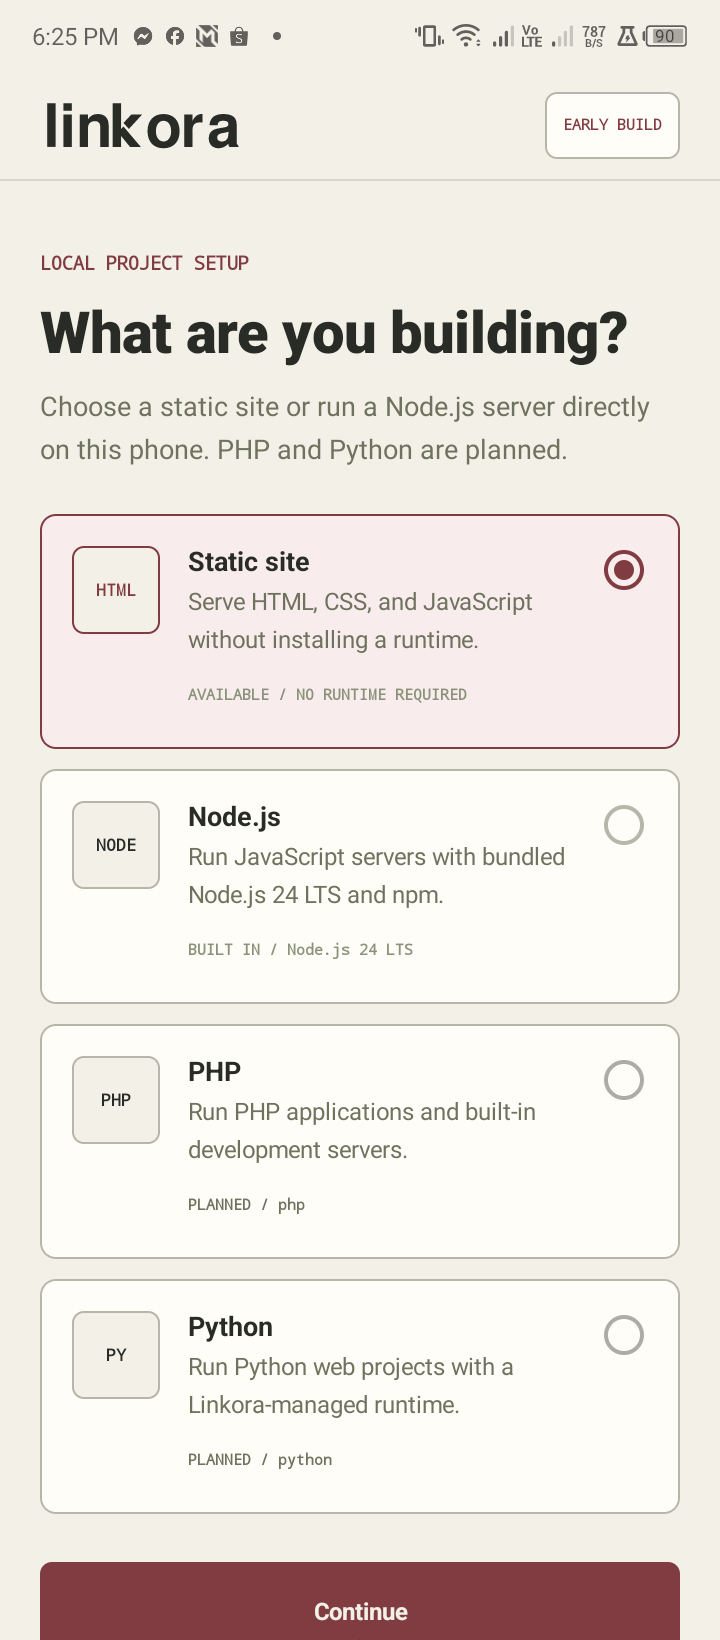
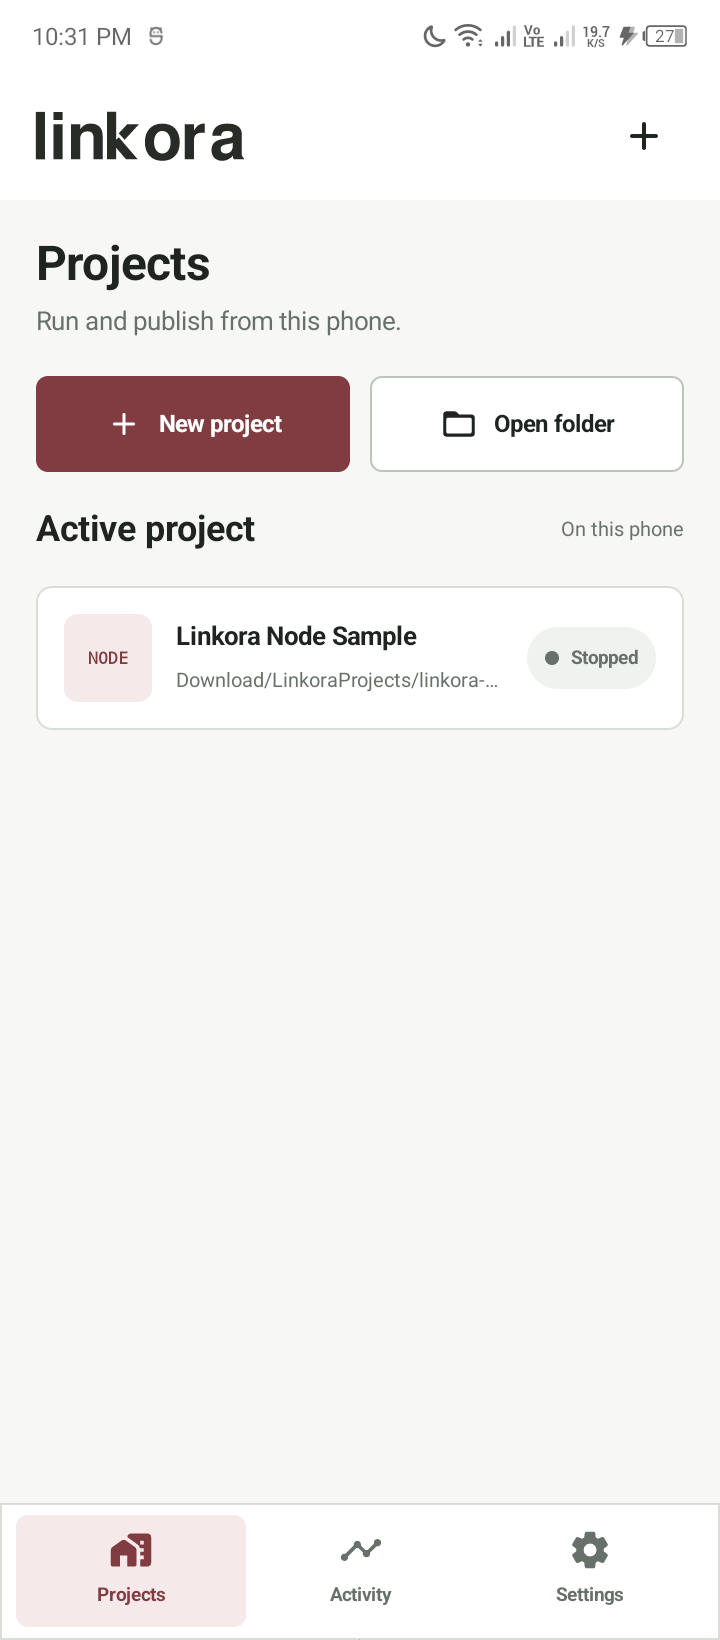
chore: prepare F-Droid 0.7.0 release

diff --git a/README.md b/README.md
@@ -22,6 +22,10 @@ Lightweight Android companion for Linkora, built with Kotlin and Jetpack Compose
 - Browser-based device authorization through Android Custom Tabs
 - Automatic approval polling and session restoration
 - Android Keystore-encrypted access-token storage
+- Standalone mode with no Linkora account or `linkora.top` dependency
+- Device-only and local-network project access
+- User-owned domain publishing through a Cloudflare Tunnel token
+- Selectable Node.js and PHP start commands with `{HOST}` and `{PORT}` placeholders
 - Linkora domain-pool and managed-hostname integration
 - New or existing Linkora URL assignment through the production API
 - Optional Linkora Connector Pack with foreground status and automatic reconnect
@@ -30,23 +34,28 @@ Lightweight Android companion for Linkora, built with Kotlin and Jetpack Compose
 - CPU-neutral main APK with architecture-specific runtime selection
 - Linkora brand colors and Android launcher icon
 
-Sign-in uses Linkora's one-time device authorization flow. The app opens the
+Linkora-managed mode uses Linkora's one-time device authorization flow. The app opens the
 approval page on `linkora.top`, never receives the account password, and exchanges
 the approved request for a revocable device token.
 
+Standalone mode does not require a Linkora account and does not call the Linkora
+API. Projects can stay device-only, be shared on the local network, or use a
+Cloudflare Tunnel configured by the user for their own domain.
+
 ## Project workflow
 
-1. Select **Static site**, **Node.js**, or **PHP** and sign in with Linkora.
-2. Use the included starter or tap **Choose project folder**.
-3. In Android Files, choose a folder containing `index.html` for a static site,
+1. Select **Linkora managed** or **Standalone** publishing.
+2. Select **Static site**, **Node.js**, or **PHP**. Sign in only in Linkora-managed mode.
+3. Use the included starter or tap **Choose project folder**.
+4. In Android Files, choose a folder containing `index.html` for a static site,
    `package.json` and a supported JavaScript entry file for Node.js, or
-   `index.php` for PHP.
-4. Edit the selected files with any Android file editor.
-5. For Node.js, install dependencies if needed and start the runtime. For PHP,
+   `index.php` for PHP, or a Laravel project containing `artisan` and `public/index.php`.
+5. Edit the selected files with any Android file editor.
+6. For Node.js, install dependencies if needed and start the runtime. For PHP,
    start the verified PHP Runtime Pack. Open the preview after it is running.
-6. Tap **Assign Linkora URL** to reserve a hostname or use an existing managed
-   hostname.
-7. Linkora starts the installed connector pack and keeps the phone-hosted project online.
+7. Use the detected start command or set a `node`, `npm`, or `php` command.
+8. In managed mode, assign a Linkora URL. In standalone mode, keep the project
+   local, share it on the LAN, or connect a user-owned Cloudflare tunnel.
 
 The starter in Downloads or the user-selected folder remains the source of
 truth. Static projects are served directly. Node.js source is synchronized into
@@ -61,13 +70,16 @@ incompatible package. Additional ABI builds can be registered in a main-app
 update after their payload hashes and device tests are complete. Python remains
 planned.
 
-PHP projects must contain `index.php`. Linkora synchronizes selected project
-files into a private runtime workspace before each start or restart. Files
-created at runtime, including SQLite databases and uploads, remain available
-between restarts without modifying the selected source folder.
+PHP projects must contain `index.php`, or Laravel's `artisan` and
+`public/index.php`. Linkora synchronizes selected project files into a private
+runtime workspace before each start or restart. Files created at runtime,
+including SQLite databases and uploads, remain available between restarts
+without modifying the selected source folder.
 
-Node.js servers must listen on `process.env.HOST` and `process.env.PORT`.
-Linkora sets these to `127.0.0.1` and `8787` before starting the project.
+Node.js servers should listen on `process.env.HOST` and `process.env.PORT`.
+Linkora supplies both values and supports `{HOST}` and `{PORT}` placeholders in
+custom start commands. Local-network sharing changes the supplied host from
+`127.0.0.1` to `0.0.0.0`; the local port remains `8787`.
 
 The Android Node.js runtime is experimental. Pure JavaScript packages are the
 supported baseline. Linkora adapts common `better-sqlite3` and `sqlite3` APIs to
@@ -94,6 +106,8 @@ Runtime-pack design and verification are documented in
 ## F-Droid preparation
 
 F-Droid metadata is maintained in `.fdroid.yml` and `fastlane/metadata/android`.
-The build recipe remains disabled until a final release commit is tagged and
-the source repository is public. See [`docs/fdroid-release.md`](docs/fdroid-release.md)
-for the release checklist.
+The main-app recipe removes all prebuilt runtime payloads and excludes the
+runtime-pack modules before building the architecture-neutral APK from source.
+Static hosting remains fully functional; native runtimes are separate FOSS
+applications with their own release and review process. See
+[`docs/fdroid-release.md`](docs/fdroid-release.md) for the release checklist.

diff --git a/docs/fdroid-release.md b/docs/fdroid-release.md
@@ -1,22 +1,38 @@
 # F-Droid release preparation
 
-The repository contains upstream store metadata and a disabled `.fdroid.yml`
-recipe. It is prepared for review but must not be submitted until the release
-is final.
+The repository contains upstream store metadata and an active `.fdroid.yml`
+recipe for the architecture-neutral main application. The recipe deliberately
+removes prebuilt runtime payloads before F-Droid scans and builds the source.
 
 ## Before submission
 
 1. Make the source repository publicly cloneable.
 2. Confirm the application version and version code in `app/build.gradle.kts`.
-3. Update the build entry in `.fdroid.yml` to the same version.
-4. Run all runtime-pack verification scripts.
-5. Run `./gradlew clean :app:assembleRelease` with JDK 17.
-6. Test the main release build on at least ARM64 and x86_64 Android devices.
+3. Confirm the build entry and changelog use the same version and version code.
+4. Run `./gradlew clean :app:testDebugUnitTest :app:lintRelease :app:assembleRelease`
+   with JDK 17.
+5. Test the main release build on at least ARM64 and x86_64 Android devices.
+6. Simulate the F-Droid checkout preparation and build using the commands in
+   the next section.
 7. Commit all release sources and create the matching signed source tag, such
-   as `v0.6.0`.
-8. Remove the build entry's `disable` field only after that tag is public.
+   as `v0.7.0`.
+8. Push the commit and tag, then confirm both are publicly cloneable without
+   GitHub credentials.
 9. Add the final tag and commit to the fdroiddata submission. Do not submit a
    branch name as the release commit.
+
+## Reproduce the F-Droid main-app build
+
+Run these commands in a disposable checkout, never in the working tree:
+
+```bash
+rm -rf app/src/main/jniLibs runtime-payloads
+sed -i '/include(":runtime-/d' settings.gradle.kts
+./gradlew clean assembleRelease
+```
+
+Only `app/build/outputs/apk/release/app-release-unsigned.apk` should be
+produced. The APK must not contain Node.js, PHP, MariaDB, or cloudflared.
 
 ## Native runtime review
 
@@ -32,13 +48,13 @@ recorded in:
 - `scripts/verify-bundled-runtime.sh`
 - `docs/runtime-packs.md`
 
-Each runtime pack has its own application ID and requires its own F-Droid
-metadata submission. Linkora can also install a compatible pack from a signed
-GitHub release after explicit user approval.
+Each runtime pack has its own application ID and requires a separate F-Droid
+metadata submission with a source-build recipe. Linkora can also install a
+compatible pack from a signed GitHub release after explicit user approval.
 
-The local metadata uses narrowly scoped `scanignore` entries for these known
-files. F-Droid maintainers may request that native artifacts be rebuilt in the
-fdroiddata recipe. Do not broaden those entries or ignore unrelated findings.
+The main-app recipe uses `rm` rather than `scanignore`: every prebuilt native
+payload is deleted before scanning, and Gradle builds only the main app. Never
+add a runtime payload to the main recipe's `scanignore` list.
 
 ## Signing
 
